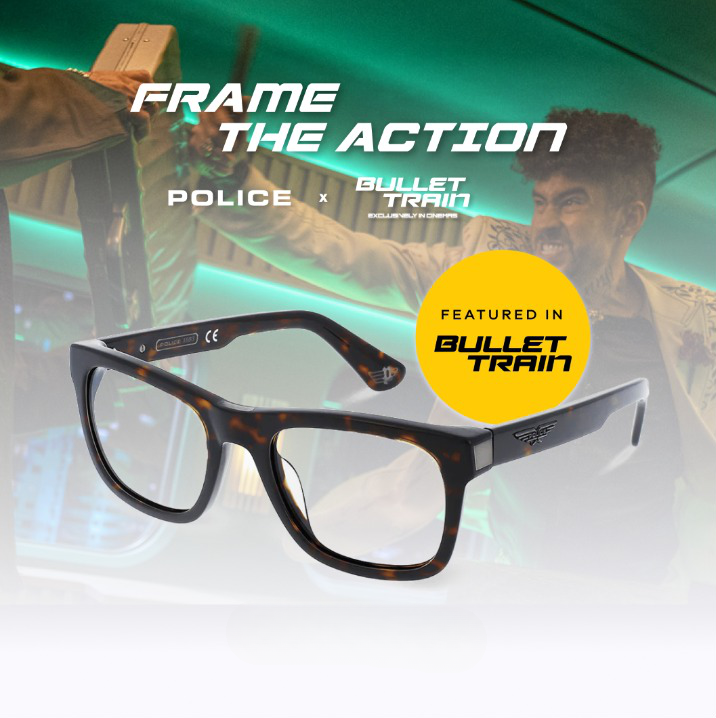
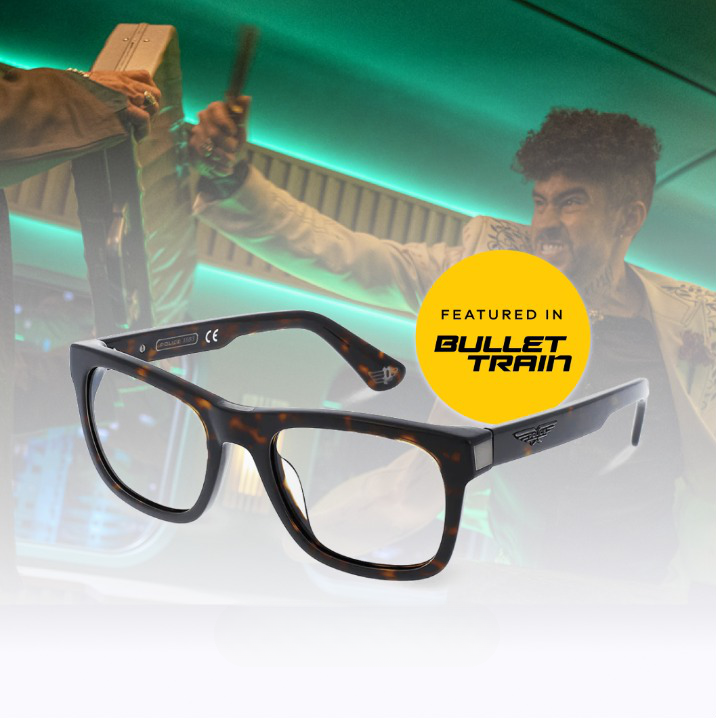
enhancement svg in lider

Changed region(s): [[0.1844, 0.0919, 0.7989, 0.2451], [0.2151, 0.2451, 0.4302, 0.3064], [0.4916, 0.2451, 0.676, 0.3064]]

diff --git a/components/HeroWithSlider.jsx b/components/HeroWithSlider.jsx
@@ -17,6 +17,8 @@ import Badge from "../public/badge_featured.png";
 import HeroArrow from "../public/arrow_down.svg";
 import {galleries} from "../helpers/Slides";
 import {allVariants} from "../helpers/Variants";
+import FrameAction from "../public/frameAction.svg";
+import PoliceBullet from "../public/policeBulletTrain.png"
 
 import { Swiper, SwiperSlide } from "swiper/react";
 import "swiper/css";
@@ -204,7 +206,23 @@ function HeroWithSlider() {
 
         <div className="relative h-auto w-full flex flex-col">
 
-          <div className="swiperGallery hidden md2:block w-full h-full max-h-[83.9%]">
+          <div className="swiperGallery hidden md2:block w-full h-full max-h-[83.9%] relative">
+
+            <div className={`absolute w-[56.7%] max-w-[900px] top-[10.32%] z-20 left-[17.11%]  flex-col ${realIndexGallery != 0 ?  'hidden' : 'flex' }`}>
+
+              <div className="w-full">
+                <FrameAction/>
+              </div>   
+
+              <div className="w-full pl-[4.23%]">
+                <Image
+                  src={PoliceBullet}
+                  layout="responsive"
+                  alt="alt product slide"
+                />                
+              </div>
+
+            </div>
 
             <Swiper 
               modules={[Pagination]}
@@ -225,11 +243,11 @@ function HeroWithSlider() {
                     <SwiperSlide className="w-full h-auto min-h-[303px] z-[3] flex justify-center" key={i}>
                       <Image
                         src={productImage}
-                        alt="Alt"
+                        alt="Alt pdp"
                         layout="fill"
                         quality={100}
                         priority={true}
-                        className="z-[3] mx-auto h-full object-contain"
+                        className="z-[3] mx-auto h-full object-cover xl:object-contain"
                       />
                     </SwiperSlide>
 
